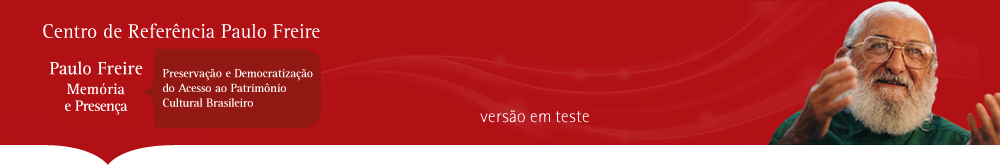
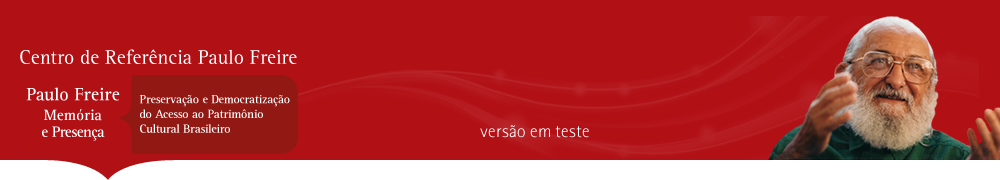
Mudanças de layout no servidor

diff --git a/webapps/xmlui/themes/Corisco/lib/css/corisco.css b/webapps/xmlui/themes/Corisco/lib/css/corisco.css
@@ -157,6 +157,7 @@ a:hover {
 }
 
 #cabecalho-menu {
+	padding-top: 8px;
 	margin: 0 auto;
     width: 500px;
 }
@@ -164,12 +165,12 @@ a:hover {
 #cabecalho-menu .item-menu {
     display: inline;
     padding: 5px 10px;
-    border-left: 1px solid #D11E18;
+    border-left: 3px solid #D11E18;
 }
         
 #cabecalho-barra {
     background: url('../img/topo.png') center no-repeat;
-    height: 168px;
+    height: 180px;
     position: relative;
 }
 
